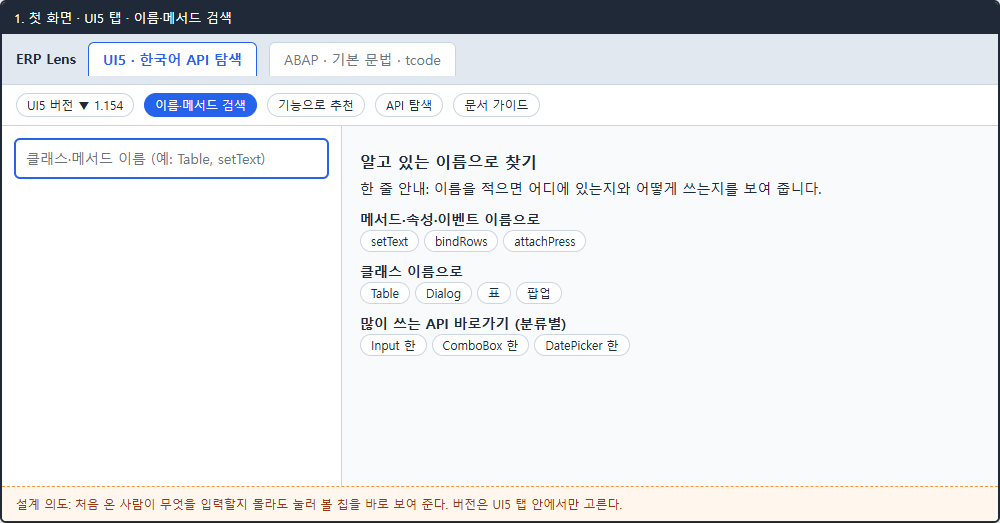
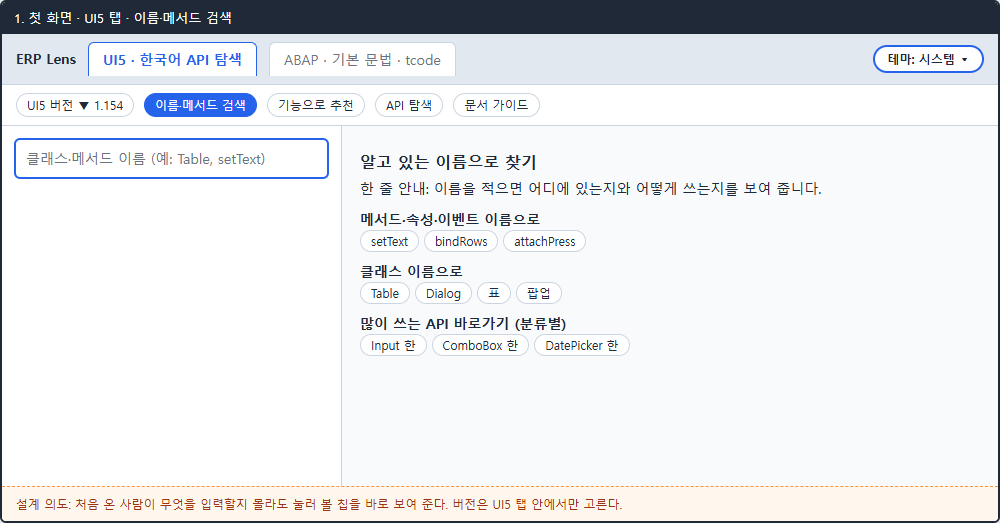
목업: 테마 선택(시스템·라이트·다크) 화면과 라이트·다크 두 벌 이미지 추가

Changed region(s): [[0.868, 0.0612, 0.992, 0.153]]

diff --git a/docs/mockups/screens.html b/docs/mockups/screens.html
@@ -10,34 +10,40 @@
   이미지 만들기: npm run docs:shots (개발 서버 불필요)
 -->
 <style>
-  :root { --ink:#1f2937; --mute:#6b7280; --line:#cbd5e1; --bg:#f8fafc; --box:#fff; --accent:#2563eb; --abap:#0f766e; --warn:#fef3c7; }
+  :root { --ink:#1f2937; --mute:#6b7280; --line:#cbd5e1; --bg:#f8fafc; --box:#fff; --accent:#2563eb; --abap:#0f766e; --warn:#fef3c7; --warn-line:#f59e0b; --chrome:#e2e8f0; --page:#e5e7eb; --capbg:#1f2937; --capink:#fff; --on:#fff; --ann-bg:#fff7ed; --ann-line:#fb923c; --ann-ink:#9a3412; }
+  :root[data-theme="dark"] { --ink:#e8ecf3; --mute:#9aa6ba; --line:#2c3544; --bg:#11151c; --box:#1a202b; --accent:#6fb0ff; --abap:#5fd1c8; --warn:#3a2a10; --warn-line:#ffbf70; --chrome:#0e1218; --page:#07090d; --capbg:#2c3544; --capink:#e8ecf3; --on:#0a1220; --ann-bg:#2a1d12; --ann-line:#a3622d; --ann-ink:#ffbf70; }
   * { box-sizing:border-box; }
-  body { margin:0; padding:24px; background:#e5e7eb; color:var(--ink); font:14px/1.5 system-ui,"Malgun Gothic",sans-serif; }
+  body { margin:0; padding:24px; background:var(--page); color:var(--ink); font:14px/1.5 system-ui,"Malgun Gothic",sans-serif; }
   h1 { font-size:18px; margin:0 0 16px; }
   .screen { width:1000px; margin:0 auto 28px; background:var(--bg); border:2px solid var(--ink); border-radius:6px; overflow:hidden; }
-  .cap { background:var(--ink); color:#fff; padding:6px 12px; font-size:13px; }
-  .bar { display:flex; gap:12px; align-items:center; padding:8px 14px; background:#e2e8f0; border-bottom:1px solid var(--line); }
+  .cap { background:var(--capbg); color:var(--capink); padding:6px 12px; font-size:13px; }
+  .bar { display:flex; gap:12px; align-items:center; padding:8px 14px; background:var(--chrome); border-bottom:1px solid var(--line); }
   .logo { font-weight:700; }
-  .tab { padding:6px 14px; border:1px solid var(--line); border-bottom:none; border-radius:6px 6px 0 0; background:#fff; color:var(--mute); }
+  .tab { padding:6px 14px; border:1px solid var(--line); border-bottom:none; border-radius:6px 6px 0 0; background:var(--box); color:var(--mute); }
   .tab.on { color:var(--accent); border-color:var(--accent); font-weight:700; }
   .tab.on.abap { color:var(--abap); border-color:var(--abap); }
-  .sub { display:flex; gap:10px; padding:8px 14px; background:#fff; border-bottom:1px solid var(--line); }
-  .chip { padding:2px 10px; border:1px solid var(--line); border-radius:999px; background:#fff; font-size:12px; }
-  .chip.on { background:var(--accent); color:#fff; border-color:var(--accent); }
+  .sub { display:flex; gap:10px; padding:8px 14px; background:var(--box); border-bottom:1px solid var(--line); }
+  .chip { padding:2px 10px; border:1px solid var(--line); border-radius:999px; background:var(--box); font-size:12px; }
+  .chip.on { background:var(--accent); color:var(--on); border-color:var(--accent); }
   .chip.on.abap { background:var(--abap); border-color:var(--abap); }
   .cols { display:grid; grid-template-columns:340px 1fr; min-height:360px; }
-  .left { padding:12px; border-right:1px solid var(--line); background:#fff; }
+  .left { padding:12px; border-right:1px solid var(--line); background:var(--box); }
   .right { padding:14px 18px; }
-  .input { border:2px solid var(--accent); border-radius:6px; padding:8px 10px; color:var(--mute); background:#fff; margin-bottom:10px; }
-  .card { border:1px solid var(--line); border-radius:6px; padding:8px 10px; margin-bottom:8px; background:#fff; }
+  .input { border:2px solid var(--accent); border-radius:6px; padding:8px 10px; color:var(--mute); background:var(--box); margin-bottom:10px; }
+  .card { border:1px solid var(--line); border-radius:6px; padding:8px 10px; margin-bottom:8px; background:var(--box); }
   .card.sel { border:2px solid var(--accent); }
   .card b { display:block; }
   .tag { display:inline-block; font-size:11px; padding:0 6px; border:1px solid var(--line); border-radius:999px; color:var(--mute); margin-right:4px; }
   h2 { font-size:16px; margin:10px 0 4px; }
   .lbl { font-weight:700; margin-top:10px; }
   .code { background:#111827; color:#e5e7eb; padding:8px 12px; border-radius:6px; font:12px/1.5 Consolas,monospace; white-space:pre; }
-  .note { background:var(--warn); border:1px solid #f59e0b; border-radius:6px; padding:6px 10px; font-size:12px; margin:8px 0; }
-  .ann { margin:0; padding:8px 14px; background:#fff7ed; border-top:1px dashed #fb923c; font-size:12px; color:#9a3412; }
+  .note { background:var(--warn); border:1px solid var(--warn-line); border-radius:6px; padding:6px 10px; font-size:12px; margin:8px 0; }
+  .ann { margin:0; padding:8px 14px; background:var(--ann-bg); border-top:1px dashed var(--ann-line); font-size:12px; color:var(--ann-ink); }
+  .muted { color:var(--mute); }
+  .theme { margin-left:auto; padding:3px 12px; border:1px solid var(--line); border-radius:999px; background:var(--box); font-size:12px; }
+  .theme.hl { border:2px solid var(--accent); font-weight:700; }
+  .states { display:flex; gap:16px; padding:16px 18px; flex-wrap:wrap; }
+  .st { border:1px solid var(--line); border-radius:8px; padding:10px 14px; background:var(--box); min-width:260px; flex:1; }
 </style>
 </head>
 <body>
@@ -45,7 +51,7 @@
 
 <section class="screen" id="m1">
   <div class="cap">1. 첫 화면 · UI5 탭 · 이름·메서드 검색</div>
-  <div class="bar"><span class="logo">ERP Lens</span><span class="tab on">UI5 · 한국어 API 탐색</span><span class="tab abap">ABAP · 기본 문법 · tcode</span></div>
+  <div class="bar"><span class="logo">ERP Lens</span><span class="tab on">UI5 · 한국어 API 탐색</span><span class="tab abap">ABAP · 기본 문법 · tcode</span><span class="theme hl">테마: 시스템 ▾</span></div>
   <div class="sub"><span class="chip">UI5 버전 ▼ 1.154</span><span class="chip on">이름·메서드 검색</span><span class="chip">기능으로 추천</span><span class="chip">API 탐색</span><span class="chip">문서 가이드</span></div>
   <div class="cols">
     <div class="left"><div class="input">클래스·메서드 이름 (예: Table, setText)</div></div>
@@ -62,7 +68,7 @@
 
 <section class="screen" id="m2">
   <div class="cap">2. 검색 결과 + API 상세 (왼쪽 후보, 오른쪽 상세)</div>
-  <div class="bar"><span class="logo">ERP Lens</span><span class="tab on">UI5</span><span class="tab abap">ABAP</span></div>
+  <div class="bar"><span class="logo">ERP Lens</span><span class="tab on">UI5</span><span class="tab abap">ABAP</span><span class="theme hl">테마: 시스템 ▾</span></div>
   <div class="sub"><span class="chip on">전체 227</span><span class="chip">클래스 153</span><span class="chip">메서드 31</span><span class="chip">속성 31</span><span class="chip">이벤트 5</span></div>
   <div class="cols">
     <div class="left">
@@ -83,14 +89,14 @@
 
 <section class="screen" id="m3">
   <div class="cap">3. ABAP 탭 · 문법 사전</div>
-  <div class="bar"><span class="logo">ERP Lens</span><span class="tab">UI5</span><span class="tab on abap">ABAP · 65개+15개</span></div>
+  <div class="bar"><span class="logo">ERP Lens</span><span class="tab">UI5</span><span class="tab on abap">ABAP · 65개+15개</span><span class="theme hl">테마: 시스템 ▾</span></div>
   <div class="sub"><span class="chip on abap">문법 사전 · 65개</span><span class="chip">tcode 사전 · 15개</span><span class="chip">버전 구분 없음</span></div>
   <div class="sub"><span class="chip on abap">전체 65</span><span class="chip">선언·데이터</span><span class="chip">제어문</span><span class="chip">내부 테이블</span><span class="chip">모듈화</span><span class="chip">…</span></div>
   <div class="cols">
     <div class="left">
       <div class="note">AI 초안 · 미검토 · 실행 검증 안 함</div>
-      <div class="input" style="border-color:#0f766e">키워드 검색 (예: SELECT, 반복)</div>
-      <div class="card sel" style="border-color:#0f766e"><b>DATA</b>변수를 선언합니다.</div>
+      <div class="input" style="border-color:var(--abap)">키워드 검색 (예: SELECT, 반복)</div>
+      <div class="card sel" style="border-color:var(--abap)"><b>DATA</b>변수를 선언합니다.</div>
       <div class="card"><b>TYPES</b>자료형을 정의합니다.</div>
     </div>
     <div class="right">
@@ -107,12 +113,12 @@ DATA lv_name  TYPE string VALUE 'Kim'.</div>
 
 <section class="screen" id="m4">
   <div class="cap">4. ABAP 탭 · tcode 사전 (하고 싶은 일 또는 /n 명령으로 검색)</div>
-  <div class="bar"><span class="logo">ERP Lens</span><span class="tab">UI5</span><span class="tab on abap">ABAP</span></div>
+  <div class="bar"><span class="logo">ERP Lens</span><span class="tab">UI5</span><span class="tab on abap">ABAP</span><span class="theme hl">테마: 시스템 ▾</span></div>
   <div class="sub"><span class="chip">문법 사전</span><span class="chip on abap">tcode 사전 · 15개</span></div>
   <div class="cols">
     <div class="left">
-      <div class="input" style="border-color:#0f766e">tcode 또는 하고 싶은 일 (예: 테이블 보기, /nse38)</div>
-      <div class="card sel" style="border-color:#0f766e"><b>SE38 · ABAP Editor</b>프로그램을 작성하고 실행합니다.</div>
+      <div class="input" style="border-color:var(--abap)">tcode 또는 하고 싶은 일 (예: 테이블 보기, /nse38)</div>
+      <div class="card sel" style="border-color:var(--abap)"><b>SE38 · ABAP Editor</b>프로그램을 작성하고 실행합니다.</div>
       <div class="card"><b>SE37 · Function Builder</b>펑션 모듈을 만들고 테스트합니다.</div>
     </div>
     <div class="right">
@@ -122,6 +128,20 @@ DATA lv_name  TYPE string VALUE 'Kim'.</div>
     </div>
   </div>
   <p class="ann">설계 의도: "/nse38" 처럼 명령을 붙여 쓰면 명령(/n)과 tcode(SE38)로 나누어 설명한다.</p>
+</section>
+<section class="screen" id="m5">
+  <div class="cap">5. 테마 선택 (새 기능) · 상단 바 오른쪽 버튼 하나, 누를 때마다 순서대로 바뀜</div>
+  <div class="bar"><span class="logo">ERP Lens</span><span class="tab on">UI5</span><span class="tab abap">ABAP</span><span class="theme hl">테마: 시스템 ▾</span></div>
+  <div class="states">
+    <div class="st"><b>① 시스템 (기본값)</b><div>버튼 글자: <span class="chip">테마: 시스템</span></div><div class="muted">내 컴퓨터가 다크면 다크, 라이트면 라이트로 보입니다. 저장된 선택이 없을 때의 상태입니다.</div></div>
+    <div class="st"><b>② 라이트</b><div>버튼 글자: <span class="chip">테마: 라이트</span></div><div class="muted">시스템 설정과 상관없이 항상 밝게 보입니다.</div></div>
+    <div class="st"><b>③ 다크</b><div>버튼 글자: <span class="chip">테마: 다크</span></div><div class="muted">시스템 설정과 상관없이 항상 어둡게 보입니다. 다음 클릭은 ①로 돌아갑니다.</div></div>
+  </div>
+  <div class="states">
+    <div class="st"><b>동작 규칙</b><div class="muted">· 선택은 이 브라우저에만 저장(서버·계정 없음)<br>· 저장이 막힌 환경에서도 화면은 정상, 선택만 유지 안 됨<br>· 버튼은 색이 아니라 글자로 현재 상태를 알림<br>· 키보드(Tab → Enter)로 조작 가능</div></div>
+    <div class="st"><b>화면에 영향 없는 곳</b><div class="muted">예제 실행 창(격리된 iframe)과 보안 설정은 그대로입니다. 색 팔레트도 지금 다크 색을 그대로 씁니다.</div></div>
+  </div>
+  <p class="ann">설계 의도: 버튼을 하나만 두어 상단 바가 복잡해지지 않게 하고, 시스템을 따르는 기본 동작을 잃지 않게 한다.</p>
 </section>
 </body>
 </html>
